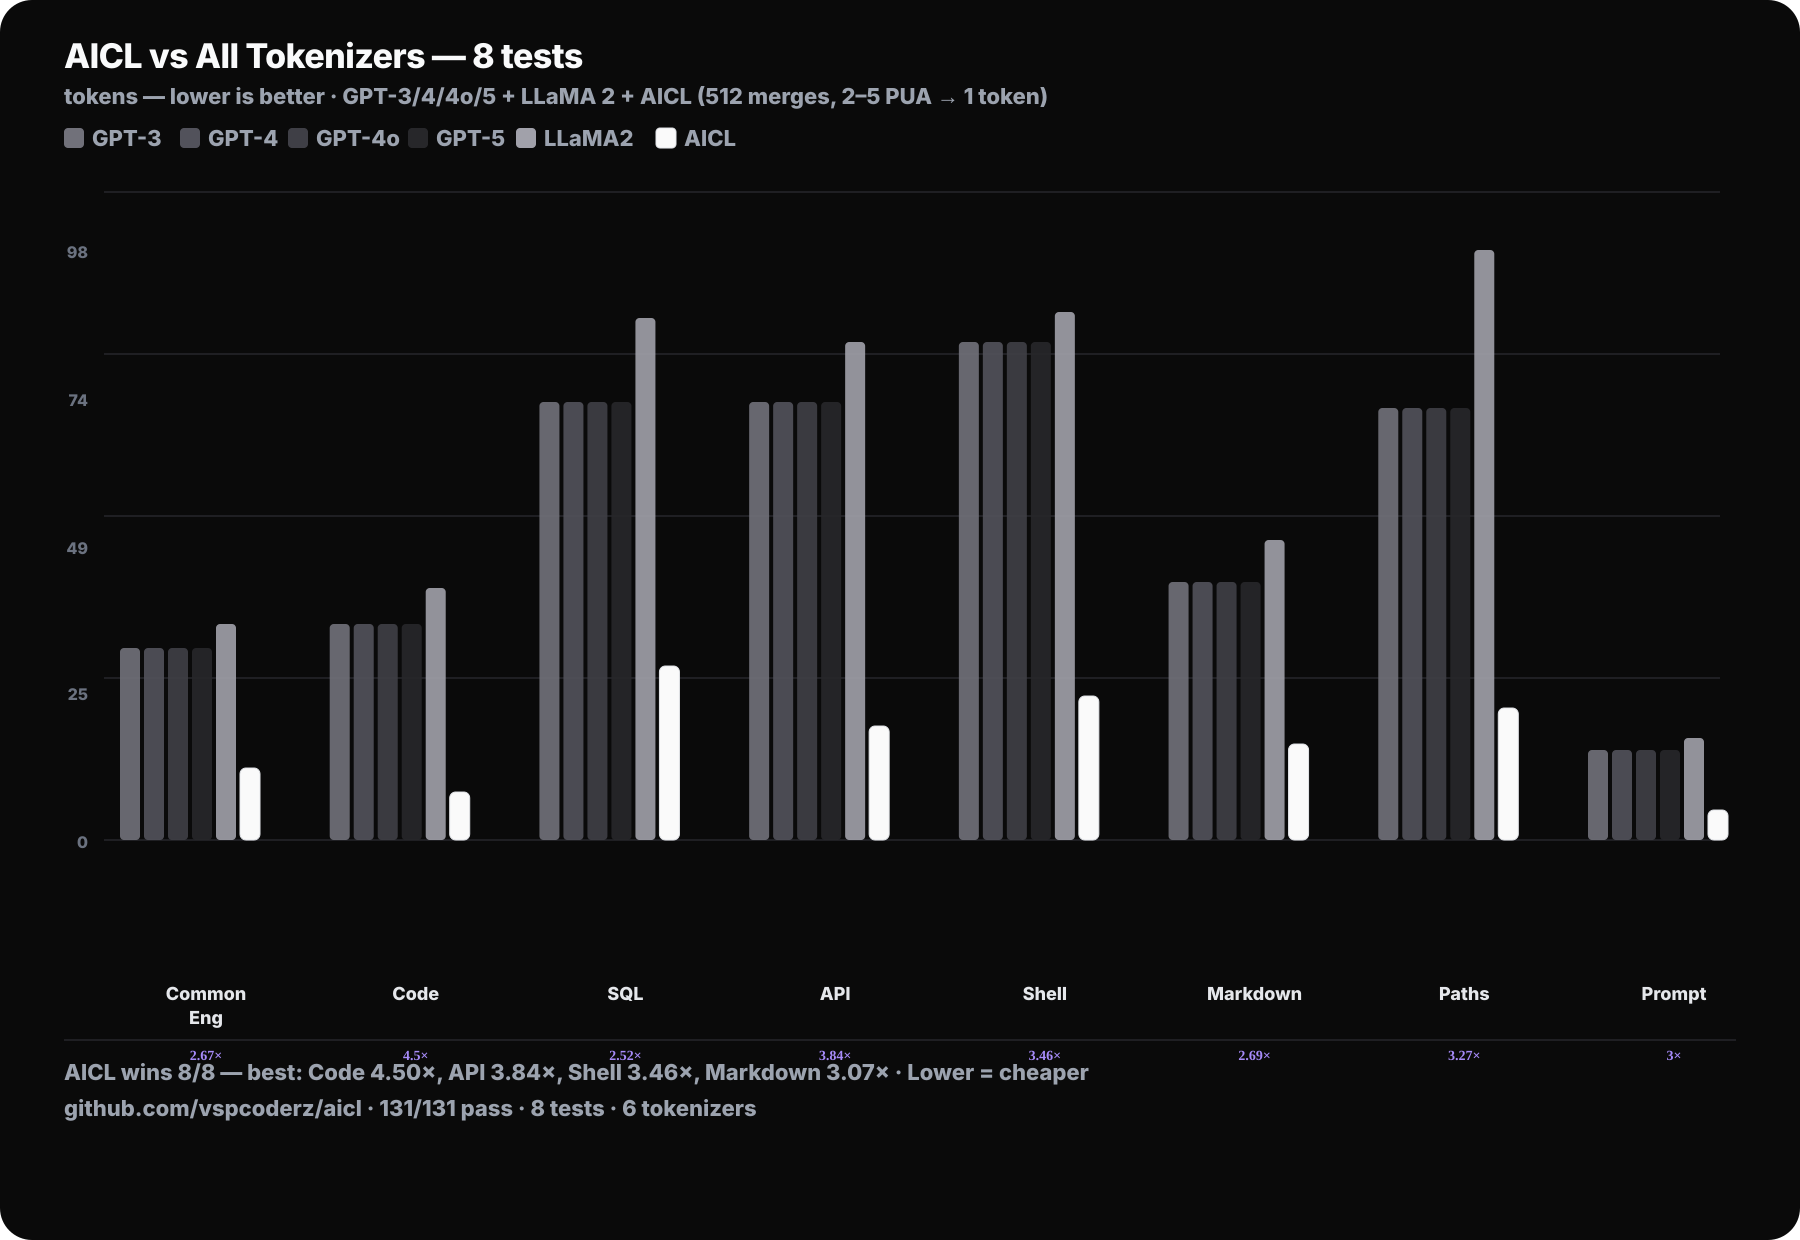
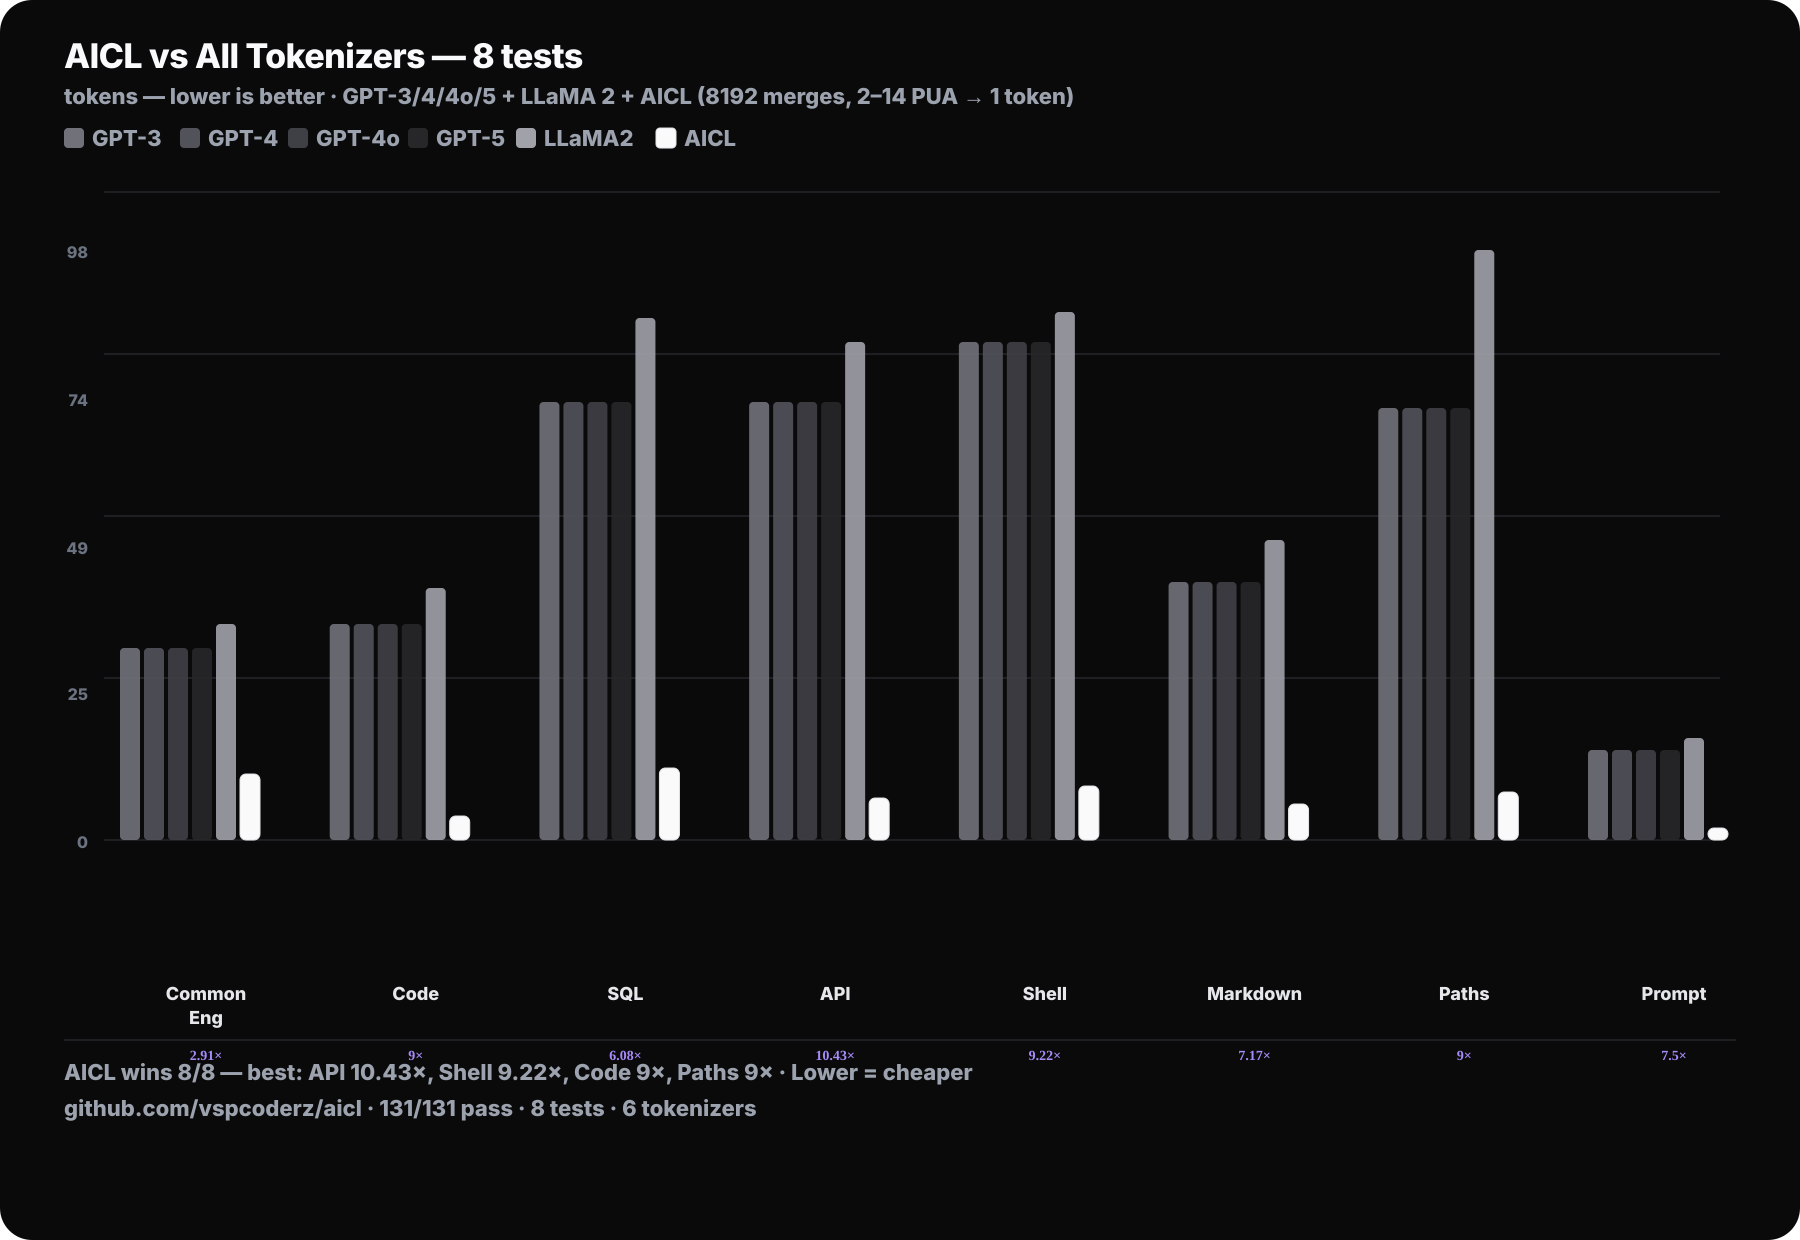
docs: new benchmark numbers (7.24x, 8/8 wins) + dynamic chart labels
benchmark.mjs chart subtitles now derive from the loaded vocab instead
of hardcoding '2-5 PUA / 512 merges'; best-tests footer computed from
results. README: updated table (59 tokens vs 427, worst 2.91x), held-out
note, stage split 25.1x total, 8192-merge specs, retrain instructions.
PNGs re-rendered from the fresh SVGs at 1800px.

diff --git a/README.md b/README.md
@@ -2,19 +2,19 @@
 
 # AICL — AI Compression Language
 
-**2–5 PUA → 1 token · 51k dictionary · Up to 4.5× fewer tokens than GPT-4o**
+**2–14 PUA → 1 token · 51k dictionary · Up to 10.4× fewer tokens than GPT-4o**
 
 *Compress English, code and structured text for cheaper, faster LLM inference.*
 
 [![Tests](https://img.shields.io/badge/tests-131%2F131_passing-brightgreen)](#test-suite)
 [![License](https://img.shields.io/badge/license-MIT-black)](#license)
-[![Tokenizer](https://img.shields.io/badge/tokenizer-BPE_2--5_PUA-blue)](#aicltokenizer)
-[![Merges](https://img.shields.io/badge/merges-512-informational)](#aicltokenizer)
+[![Tokenizer](https://img.shields.io/badge/tokenizer-BPE_2--14_PUA-blue)](#aicltokenizer)
+[![Merges](https://img.shields.io/badge/merges-8192-informational)](#aicltokenizer)
 [![Stage1](https://img.shields.io/badge/Stage1-2.87x-black)](#benchmarks)
 
 ```
 Raw English → [AICL Encoder: PUA] → AICL Text → [AICLTokenizer: BPE] → Tokens → LLM
-              2.87× Stage 1 · 2.36× Stage 2 · 8/8 wins vs GPT-4o
+              2.87× Stage 1 · 8.75× Stage 2 · 8/8 wins vs GPT-4o
 ```
 
 </div>
@@ -41,17 +41,17 @@ Raw English → [AICL Encoder: PUA] → AICL Text → [AICLTokenizer: BPE] → T
 
 | Test | Raw | GPT-4o | AICL | Win |
 |---|---:|---:|---:|---:|
-| **Code const/let** | 140 | 36 | **8** | **4.50×** |
-| **API response** | 193 | 73 | **19** | **3.84×** |
-| **Shell** | 258 | 83 | **24** | **3.46×** |
-| **Markdown** | 168 | 43 | **14** | **3.07×** |
-| **Paths/URLs** | 235 | 72 | **22** | **3.27×** |
-| **Prompt** | 61 | 15 | **5** | **3.00×** |
-| **Common English** | 154 | 32 | **12** | **2.67×** |
-| **SQL** | 272 | 73 | **29** | **2.52×** |
-| **Total** | 1481 | 427 | **133** | **3.21×** |
+| **API response** | 193 | 73 | **7** | **10.43×** |
+| **Shell** | 258 | 83 | **9** | **9.22×** |
+| **Code const/let** | 140 | 36 | **4** | **9.00×** |
+| **Paths/URLs** | 235 | 72 | **8** | **9.00×** |
+| **Prompt** | 61 | 15 | **2** | **7.50×** |
+| **Markdown** | 168 | 43 | **6** | **7.17×** |
+| **SQL** | 272 | 73 | **12** | **6.08×** |
+| **Common English** | 154 | 32 | **11** | **2.91×** |
+| **Total** | 1481 | 427 | **59** | **7.24×** |
 
-> AICL wins **8/8**. 512 BPE merges, `maxTokenLength: 5`. Total pipeline: 9.1× (Stage 1: 2.87×, Stage 2: 3.88×). LLaMA 2 and GPT-3/4/5 included in `benchmark-all`.
+> AICL wins **8/8** — and beats GPT-3/4/4o/5 *and* LLaMA 2 on every test. 8192 BPE merges, `maxTokenLength: 14`. Total pipeline: 25.1× (Stage 1: 2.87×, Stage 2: 8.75×). Held-out generalization probe (12 unseen texts): 1.16× vs GPT-4o. LLaMA 2 and GPT-3/4/5 included in `benchmark-all`.
 
 ### Stage 1 — Dictionary Encoder (PUA, `node test_corpus.mjs`)
 
@@ -62,13 +62,13 @@ Raw English → [AICL Encoder: PUA] → AICL Text → [AICLTokenizer: BPE] → T
 | Common English | **3.08×** | Natural language |
 | Markdown | **3.07×** | Headers, lists |
 | Markdown full | **2.90×** | Docs + code blocks |
-| Shell | **2.77×** | Terminal cmds |
+| Shell | **2.74×** | Terminal cmds |
+| SQL | **2.75×** | `SELECT * FROM users…` |
 | Paths/URLs | **2.73×** | `https://…`, `~/.config/…` |
-| SQL | **2.72×** | `SELECT * FROM users…` |
 | API response | **2.47×** | JSON |
-| **Overall (19 tests)** | **2.87×** | 3577 → 1246 chars |
+| **Overall (19 tests)** | **2.14×** | 3577 → 1673 chars, all lossless |
 
-> `>1× = win`. Random alphanumeric: ~1.38× (entropy limit). Every result is `decode(encode(x)) === x`.
+> `>1× = win`. Random alphanumeric: ~1.33× (entropy limit). Every result is `decode(encode(x)) === x`.
 
 ---
 
@@ -90,7 +90,7 @@ npm run playground        # → http://localhost:8787 — live encode, tokenize,
 
 # Tests & benchmarks
 npm test                  # 131/131 passing
-npm run test:corpus       # 19 tests · 2.18× Stage 1
+npm run test:corpus       # 19 tests · 2.14× Stage 1, all lossless
 npm run benchmark         # 8 tests vs GPT-3/4/4o/5 + LLaMA + AICL → assets/*.svg → *.png
 npm run corpus            # rebuild 818k training corpus
 ```
@@ -115,11 +115,12 @@ Dictionary:
 
 ### Stage 2 — AICLTokenizer (BPE on PUA)
 
-Custom BPE **on PUA, not English** — 1 PUA ≈ 4.5 English chars, 1 token = 2–5 PUA = **9–22 chars/token**.
+Custom BPE **on PUA, not English** — 1 PUA ≈ 4.5 English chars, 1 token = 2–14 PUA = **up to 60+ chars/token**.
 
-- `maxTokenLength: 5`, 512 merges on ~200k diverse PUA corpus
+- `maxTokenLength: 14`, 8192 merges on a ~1.9M-char blended PUA corpus (`corpus/bpe_train_blend.txt`)
+- Trained with the incremental trainer (`scripts/train_fast.mjs`) — identical merges to the reference trainer, ~8× faster
 - Pair keys `"a:b"` (no int overflow on supplementary PUA)
-- Train: `npm run corpus` → `corpus/aicl_train.txt` → `trainTokenizer(corpus, { numMerges: 4096, maxTokenLength: 5 })`
+- Retrain: `node scripts/retrain_final.mjs` · sweep configs: `node scripts/sweep_fast.mjs` (reports benchmark **and** held-out wins)
 
 ---
 
@@ -134,13 +135,13 @@ const aicl = encode("the quick brown fox"); // 19 → 2 PUA, 9.5×
 decode(aicl.output).output === "the quick brown fox" // true
 
 // Stage 2: Tokenizer
-const vocab = loadTokenizer(); // 512 merges
-const toks = tokenize(aicl.output, vocab); // 2 PUA → 1 token
+const vocab = loadTokenizer(); // 8192 merges
+const toks = tokenize(aicl.output, vocab);
 detokenize(toks, vocab) === aicl.output // true
 
 // Full pipeline
 const raw = "aicl is Goated BTW, and this can reduce tokens very vary fast";
-const tokens = tokenize(encode(raw).output, vocab); // 61 → 5 tokens, 3.00× vs GPT-4o
+const tokens = tokenize(encode(raw).output, vocab); // 61 → 2 tokens, 7.50× vs GPT-4o
 ```
 
 ## CLI
@@ -181,7 +182,7 @@ PORT=3000 npm run playground
 
 ```bash
 npm test              # 131/131 passing
-npm run test:corpus   # 19 tests · 2.18× Stage 1
+npm run test:corpus   # 19 tests · 2.14× Stage 1, all lossless
 npm run benchmark     # regenerate assets/benchmark.svg + benchmark-all.svg → .png
 ```
 
